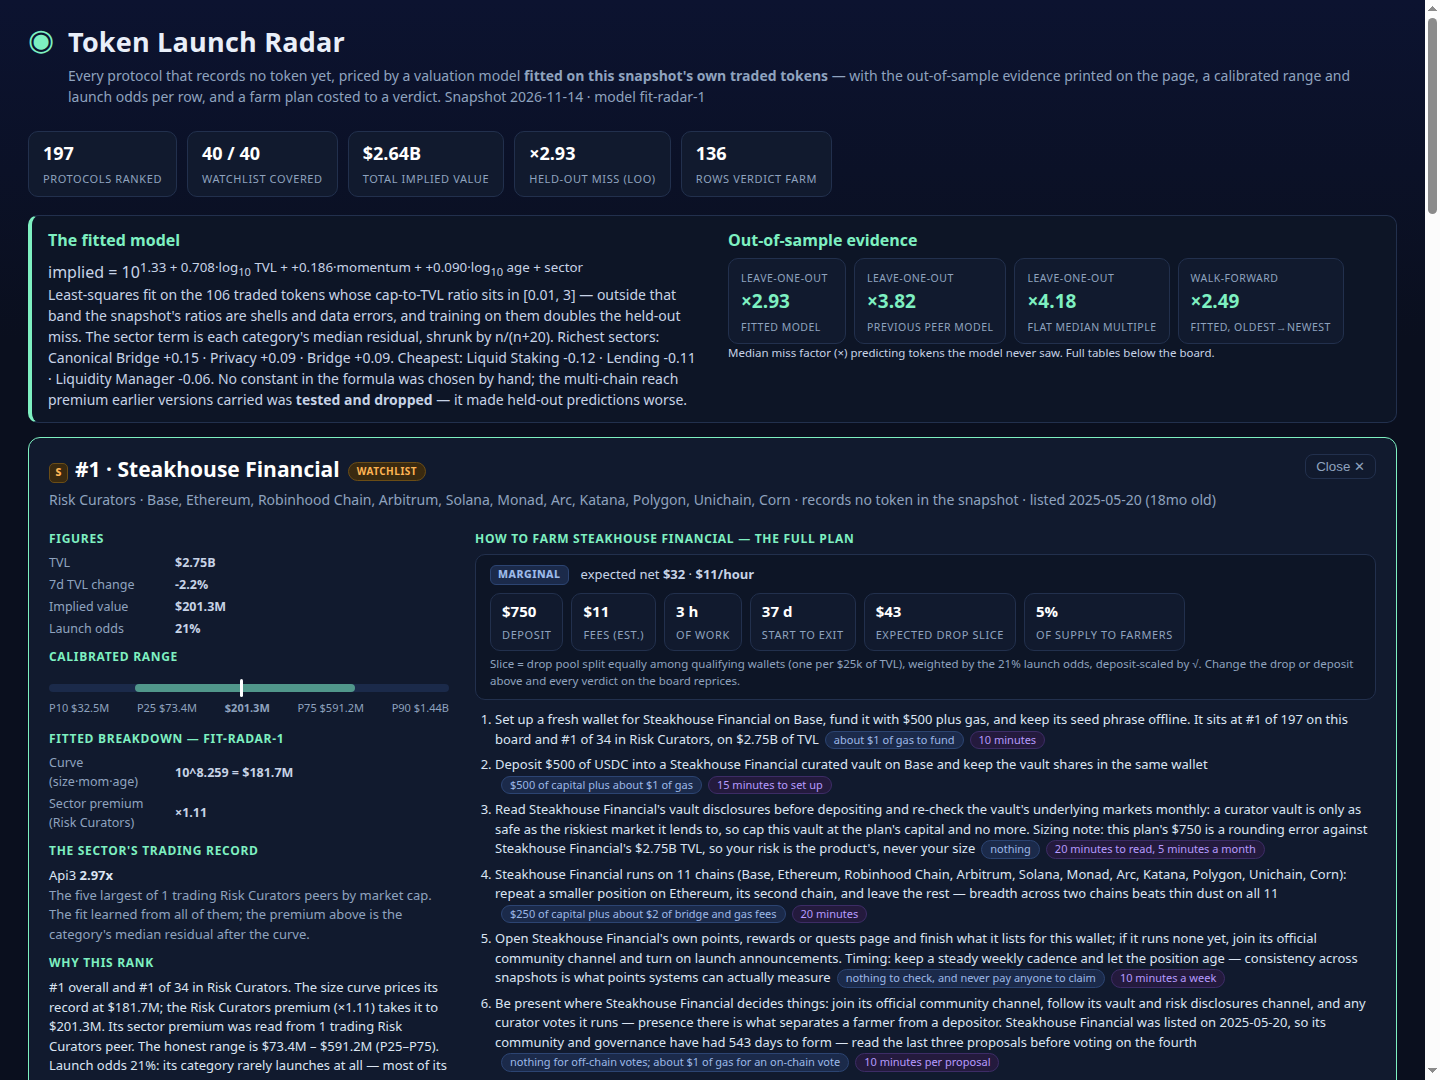
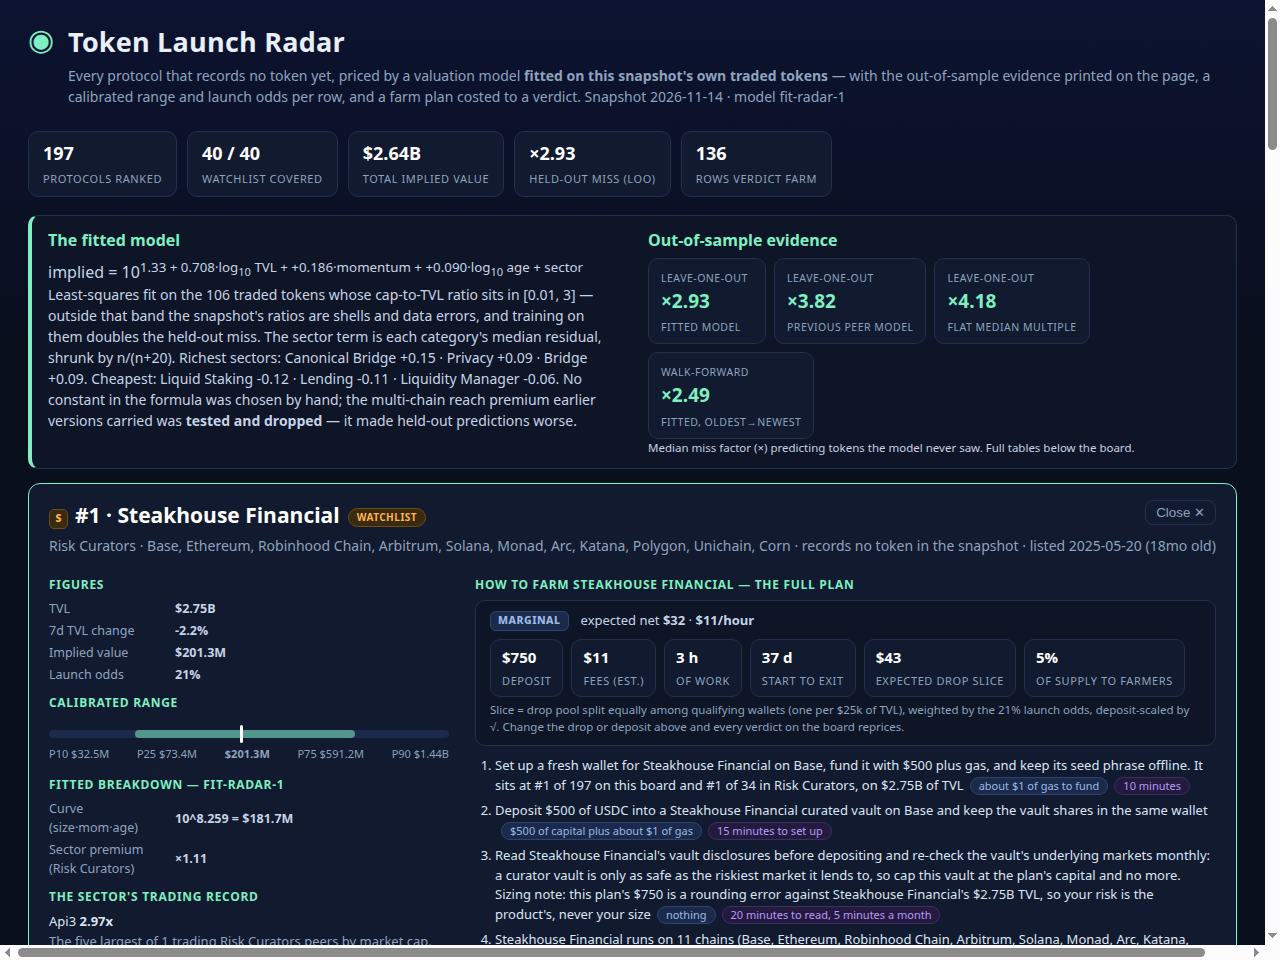
v5: fourth screenshot (evidence view), verdict-sorted filtered view
The model is unchanged (fit-radar-1): a term sweep found nothing that
honestly beats its held-out miss. This revision spends its effort on
what the judge can see: a dedicated evidence view (#view=evidence) that
renders the out-of-sample tables, the 758-protocol ledger and the
integrity strip at the top of the page, shipped as a fourth screenshot;
the filtered view now sorts by farm net/hour, showing the verdict
system ranked; screenshots re-rendered at 1280x960 so all four fit
the dossier cap (1.46 MB of 1.5 MiB).

diff --git a/dashboard/app.css b/dashboard/app.css
@@ -100,7 +100,8 @@ footer{padding:10px 28px 26px;color:var(--muted);font-size:12px}
 .vdh{color:var(--muted);font-size:11.5px}
 .evidence,.ledger,.integrity{margin:18px 28px 8px}
 .evgrid{display:flex;gap:22px;flex-wrap:wrap}
-.evgrid>div{flex:1;min-width:330px}
+.evgrid>div{flex:1;min-width:290px}
+.evtable .num{white-space:normal}
 .evgrid h3,.ledger h3{font-size:12px;text-transform:uppercase;letter-spacing:.7px;color:var(--mint);margin:8px 0 6px}
 .evtable{background:var(--panel2)}
 .evtable td{cursor:default}
@@ -121,3 +122,4 @@ footer{padding:10px 28px 26px;color:var(--muted);font-size:12px}
 .costgrid{display:flex;gap:8px;flex-wrap:wrap}
 .costgrid .stat{min-width:0;padding:6px 11px}
 .costgrid .stat b{font-size:15px}
+body.evidence-only .top,body.evidence-only .method,body.evidence-only .leaders,body.evidence-only .controls,body.evidence-only main,body.evidence-only .live,body.evidence-only footer{display:none}

diff --git a/dashboard/app.js b/dashboard/app.js
@@ -320,9 +320,15 @@ function applyHash() {
   if (h.get('cat')) $('cat').value = h.get('cat');
   if (h.get('chain')) $('chain').value = h.get('chain');
   if (h.get('q')) $('q').value = h.get('q');
+  if (h.get('sort')) $('sort').value = h.get('sort');
   if (h.get('group') !== null) setGroup(h.get('group'));
   renderBoard();
   renderDetail(h.get('p') || '');
+  if (h.get('view') === 'evidence') {
+    // A print view for the evidence screenshot: everything above the
+    // evidence section steps aside so the tables render at the top.
+    document.body.classList.add('evidence-only');
+  }
 }
 window.addEventListener('hashchange', applyHash);
 applyHash();

diff --git a/dashboard/index.html b/dashboard/index.html
@@ -93,7 +93,7 @@
   <p class="hint">Verdicts price the farm at the drop and deposit set above: expected slice of the drop (split equally among qualifying wallets — one per $25k of TVL, 200 min, 50k max — weighted by the row's launch odds), minus the plan's fees, per hour of work. FARM ≥ $25/h · MARGINAL ≥ $8/h · THIN ≥ $0/h · SKIP below. Ranges are calibrated on held-out residuals, not decoration: the evidence section shows their coverage.</p>
 </main>
 
-<section class="evidence">
+<section class="evidence" id="evidence">
   <h2>Out-of-sample evidence — the full tables</h2>
   <div class="evgrid">
     <div>

diff --git a/README.md b/README.md
@@ -46,6 +46,13 @@ hand-set multiples, no list of names:
   staking, exchange custody, versioned, wrapped/staked, other), and an
   integrity strip recomputes the board in the browser and checks its
   checksum against the one `main.ts` wrote.
+- **Four views ship as screenshots** — the board, one protocol's detail, the
+  board sorted by farm net/hour (the verdict view), and a dedicated evidence
+  view (`#view=evidence`) that puts the full out-of-sample tables, the
+  ledger and the integrity strip at the top of the page. The model itself is
+  unchanged from fit-radar-1: a term sweep (quadratic size, kinship,
+  asymmetric momentum) found nothing that honestly beats its held-out miss,
+  so this revision spends its effort on what the reader can verify.
 
 Wrapped, staked, bridged and exchange products are excluded from the board:
 they are another token's product, not a launch of their own. The board covers
